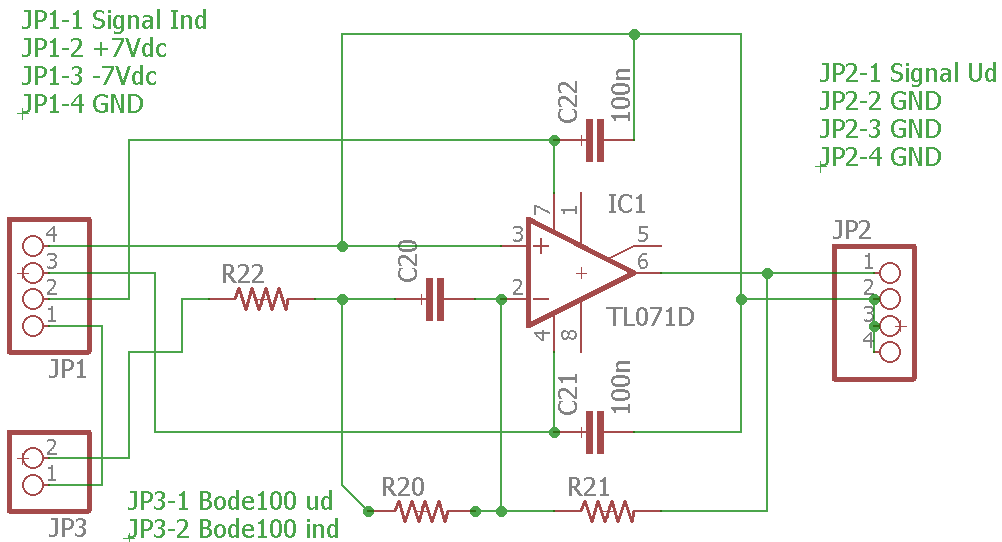
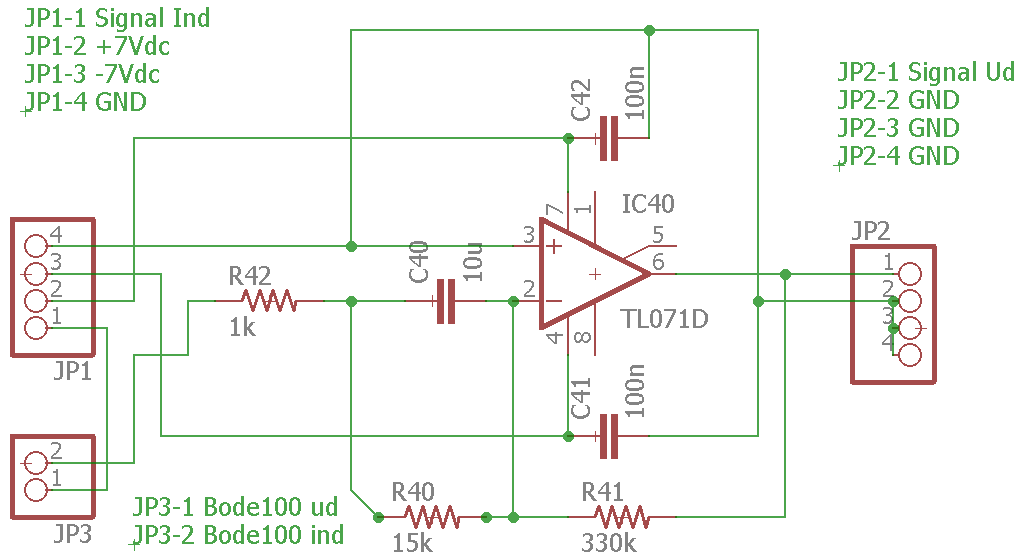
Opdateret komponent værdier

Changed region(s): [[0.0, 0.0295, 0.9281, 1.0], [0.0, 0.0, 0.2166, 0.2066], [0.8044, 0.0886, 1.0, 0.3247]]

diff --git a/section/regulering.tex b/section/regulering.tex
@@ -175,13 +175,18 @@ Resultatet af simuleringen kan ses i figur \ref{fig:system_sim_stimuli}.
 \end{figure}
 Med den endelige PD-regulator i ligning \ref{eq:reg_pd_final} og med de ovenstående værdier $K_p$, $\tau_d$ og $\alpha$ kan denne realiseres \cite[s. 349]{Reg2015} som
 \begin{align}
-K_p = \frac{R_{21}}{R_{20} + R_{22}} \quad , \quad \tau_d = R_{22}C_{20} \quad, \quad \alpha\tau_d = \frac{R_{20} R_{22} C_{20}}{R_{20} + R_{22}}
+K_p = \frac{R_{41}}{R_{40} + R_{42}} \quad , \quad \tau_d = R_{42}C_{40} \quad, \quad \alpha\tau_d = \frac{R_{40} R_{42} C_{40}}{R_{40} + R_{42}}
 \end{align}
 hvor parameterne fastsættes iht. kredsløbet i figur \ref{fig_pd_schematic}.
-Ved at fastsætte $R_{22}$ til $1\si{\kilo\ohm}$ kan resten af værdierne bestemmes til
+Ved at fastsætte $R_{42}$ til $1\si{\kilo\ohm}$ kan resten af værdierne bestemmes til
 \begin{align}
-R_{20}=12,9\si{\kilo\ohm} \quad, \quad R_{21}=367\si{\kilo\ohm} \quad, \quad C_{20} = 13\si{\micro\farad}
+R_{40}=12,9\si{\kilo\ohm} \quad, \quad R_{41}=367\si{\kilo\ohm} \quad, \quad C_{40} = 13\si{\micro\farad}
 \end{align}
+De tilnærmede komponentstørrelser der bliver brugt er
+\begin{align}
+R_{42}=1\si{\kilo\ohm} \quad, \quad R_{40}=15\si{\kilo\ohm} \quad, \quad R_{41}=330\si{\kilo\ohm} \quad, \quad C_{40} = 10\si{\micro\farad}
+\end{align}
+
 
 \subsection{Måling af systemet overførelsesfunktion med Bode 100}
 Afslutningsvis blev det forsøgt at lave en brugbar måling af systemets overførelsesfunktion med Bode 100\footnote{OMNICRON Lab Bode 100 - \url{https://www.omicron-lab.com/bode-100/}}, når vognen med pendul var i stabil drift.
